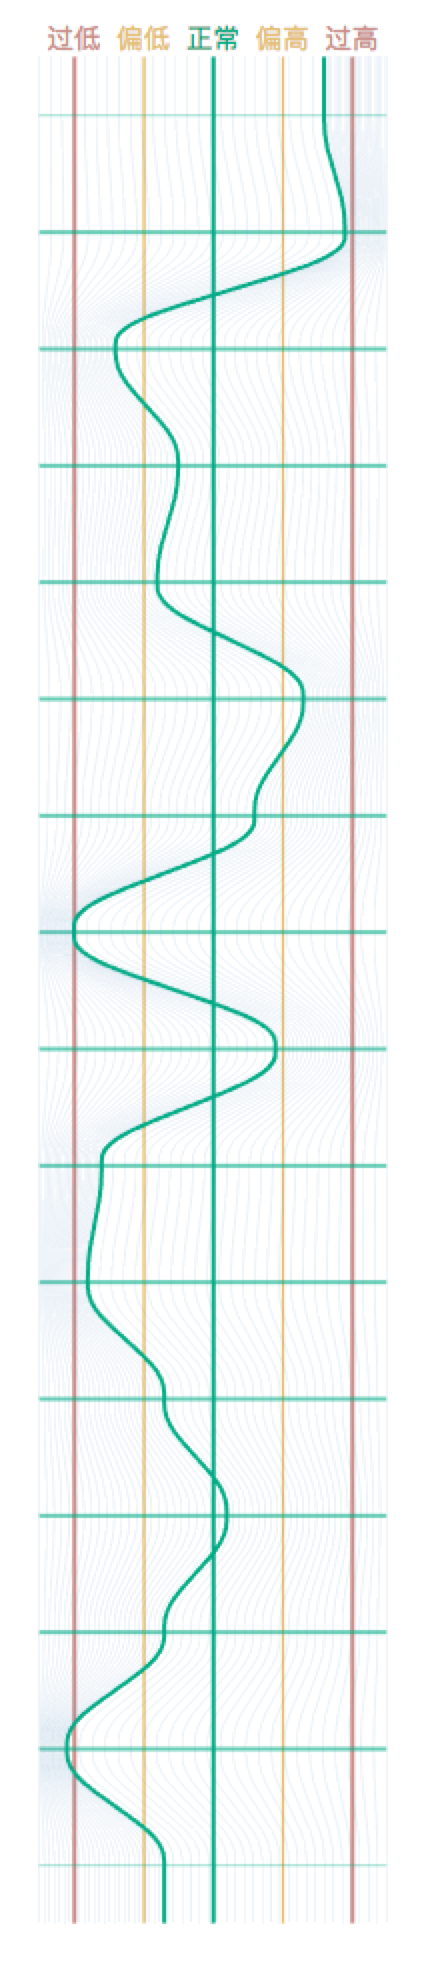
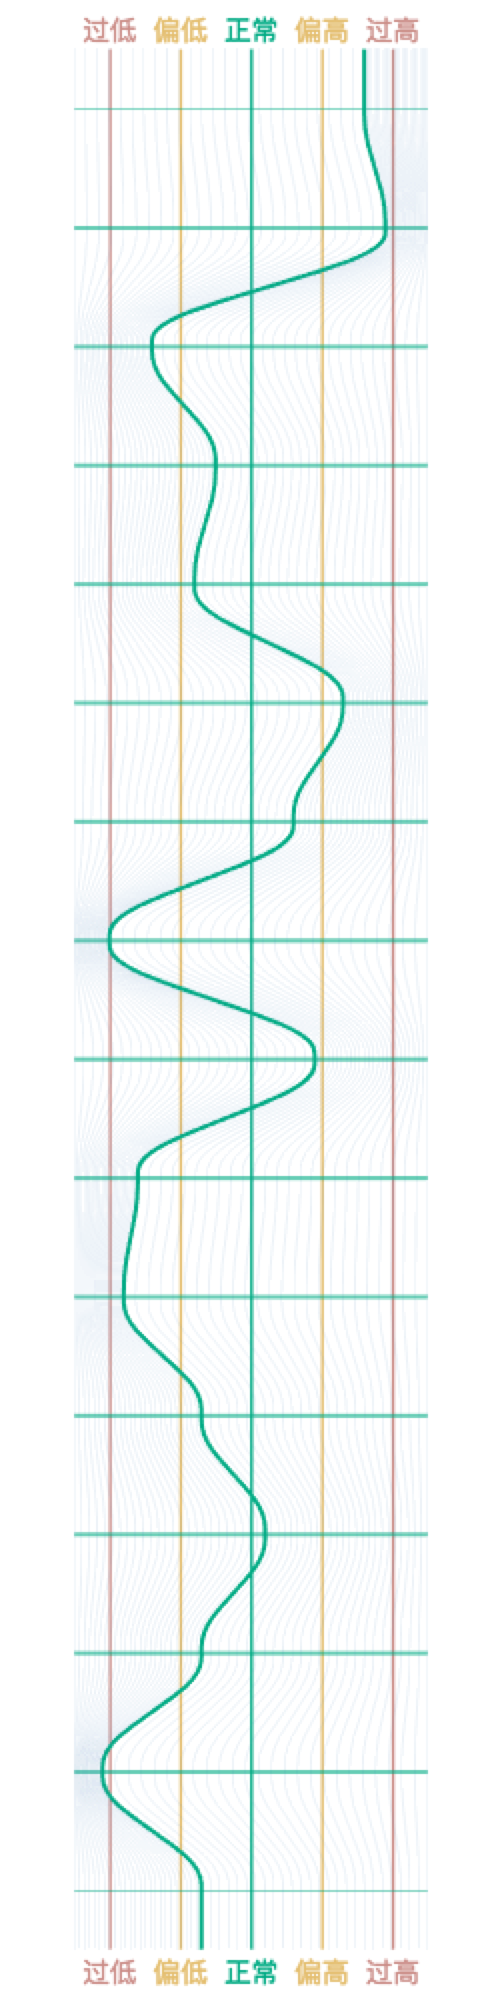
update docs and images

Changed region(s): [[0.0911, 0.0, 0.8808, 0.999]]

diff --git a/bin/data2graphics.rollup.js b/bin/data2graphics.rollup.js
@@ -2091,6 +2091,8 @@ function curveGraph(parent, config) {
         tickX.append('line').attr('stroke', color).attr('stroke-width', 2).attr('x1', 0.5).attr('x2', 0.5).attr('y2', 1400);
 
         tickX.append('text').attr('fill', color).attr('x', 0).attr('y', -3).attr('dy', -4).attr('font-family', 'adad').attr('font-size', '20px').style('fill', color).text(text);
+
+        tickX.append('text').attr('fill', color).attr('x', 0).attr('y', 1400).attr('dy', 24).attr('font-family', 'adad').attr('font-size', '20px').style('fill', color).text(text);
     }
 
     function customYAxis(g) {
